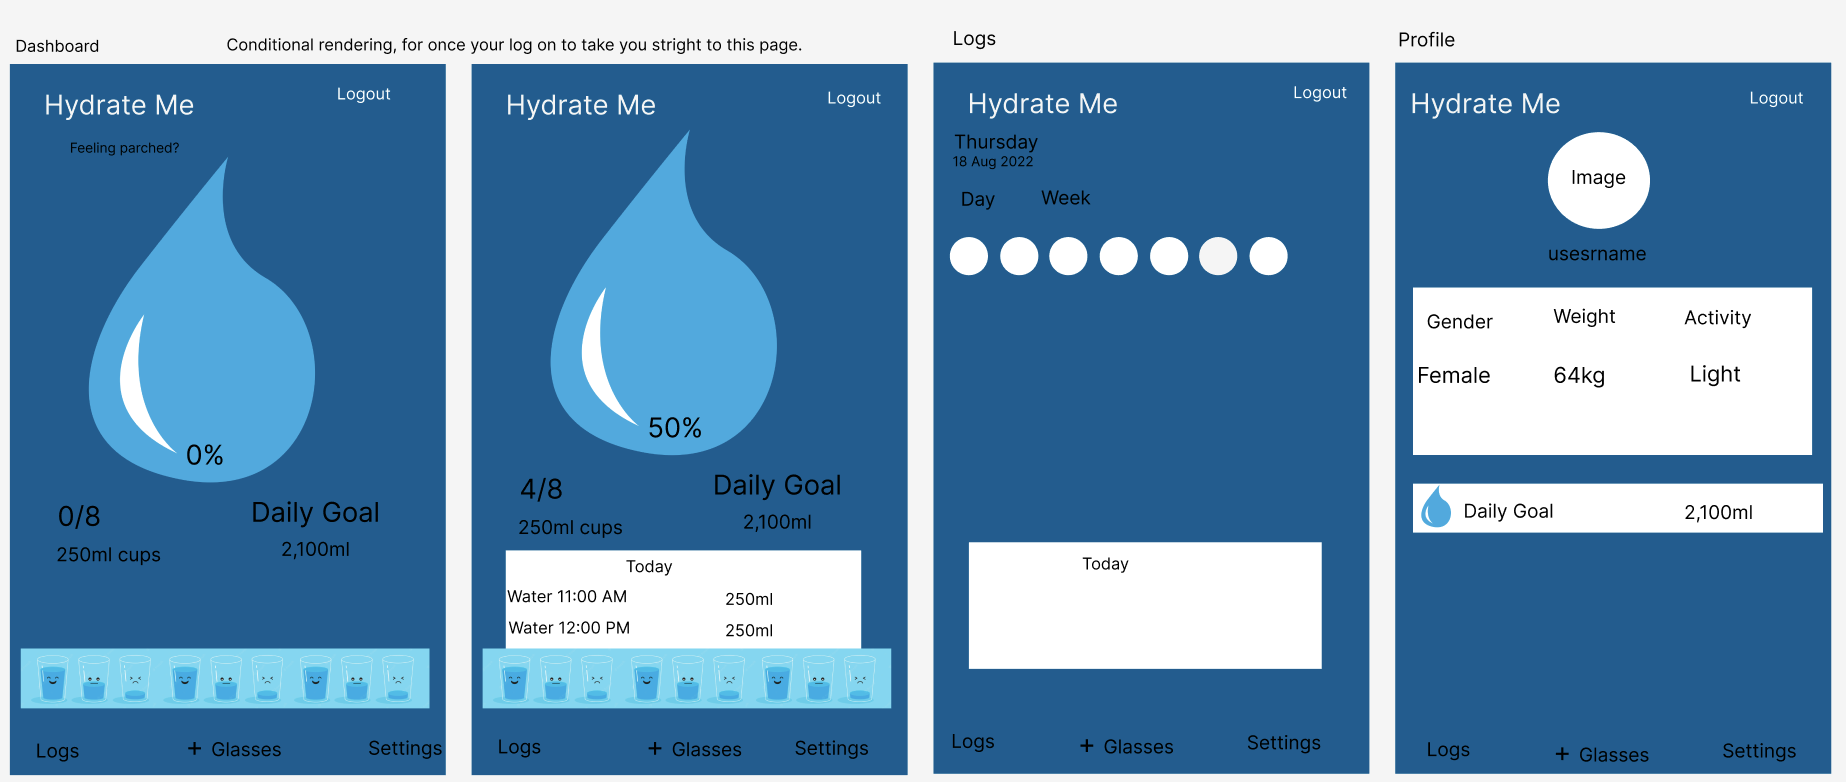
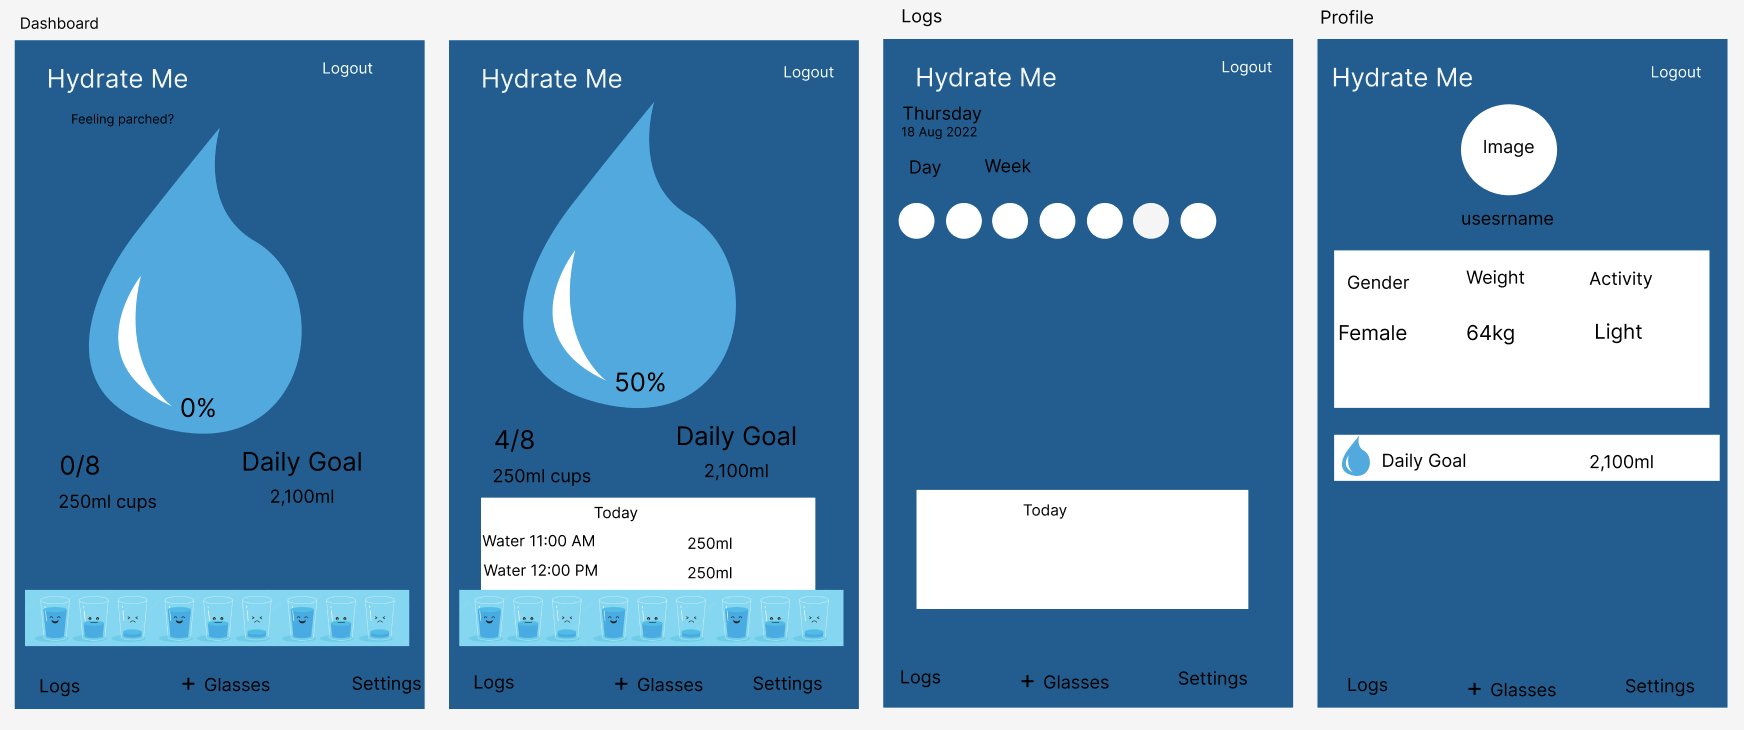
added images to readme

diff --git a/README.md b/README.md
@@ -1,6 +1,7 @@
 # Hydrate Me
 
-blah blah
+This app is created for those who don't drink enough water. Everyone thinks 8 cups/2 Litres a day is enough but that's not true.
+For people who work in the office or home, or for people who gym daily and don't drink enough water. Did you know you are meant to drink more water if you sweat a lot?
 
 [View the app here](#)
 
@@ -31,10 +32,6 @@ Third-party library components, including:
 - [Icons from React Icons](https://react-icons.github.io/react-icons/)
 - [Fonts from Google Fonts](https://fonts.google.com/specimen/Gaegu?query=gaegu)
 
-## User stories
-
-<hr>
-
 ## Approach
 
 <hr>
@@ -45,12 +42,19 @@ Third-party library components, including:
 4. Set up the front end and back end
 5. Started creating the app whilist referring to wireframes
 
+### Bugs
+
 ### Wireframes
+
+<img src="./client/public/img/wireframe_1.png" width="1000px">
+<img src="./client/public/img/Wireframe_2.png" width="1000px">
 
 ### Future Updates
 
-### Bugs
+<img src="./client/public/img/Wireframe-goal.png" width="600px">
 
-## App
+## Mobile App - Dark and Light Mode
+
+<img src="./client/public/img/Dark.jpg" width="300px"><img src="./client/public/img/Light.jpg" width="300px">
 
 <hr>
